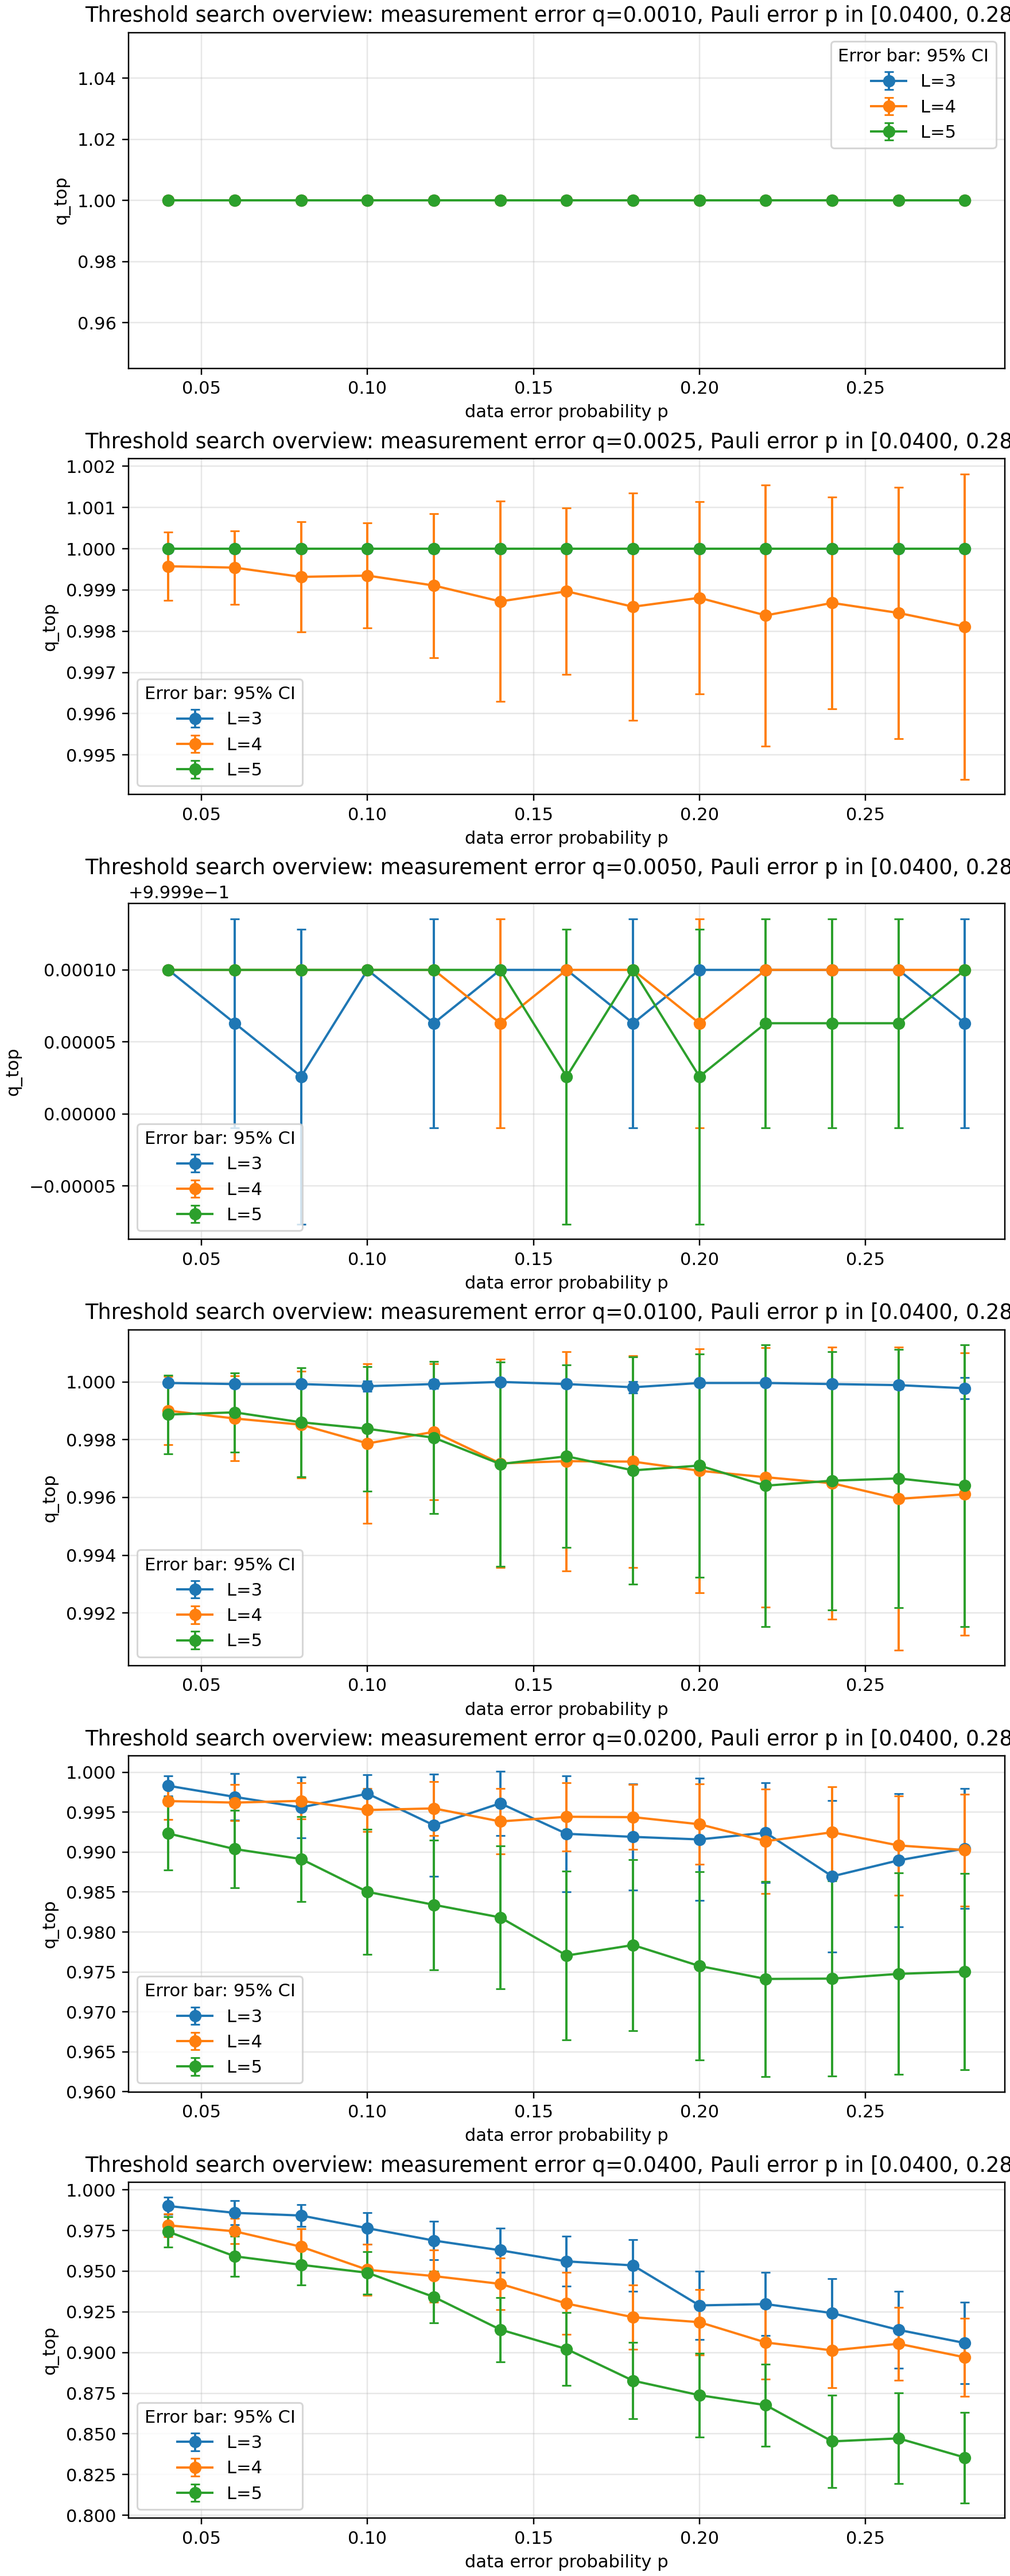
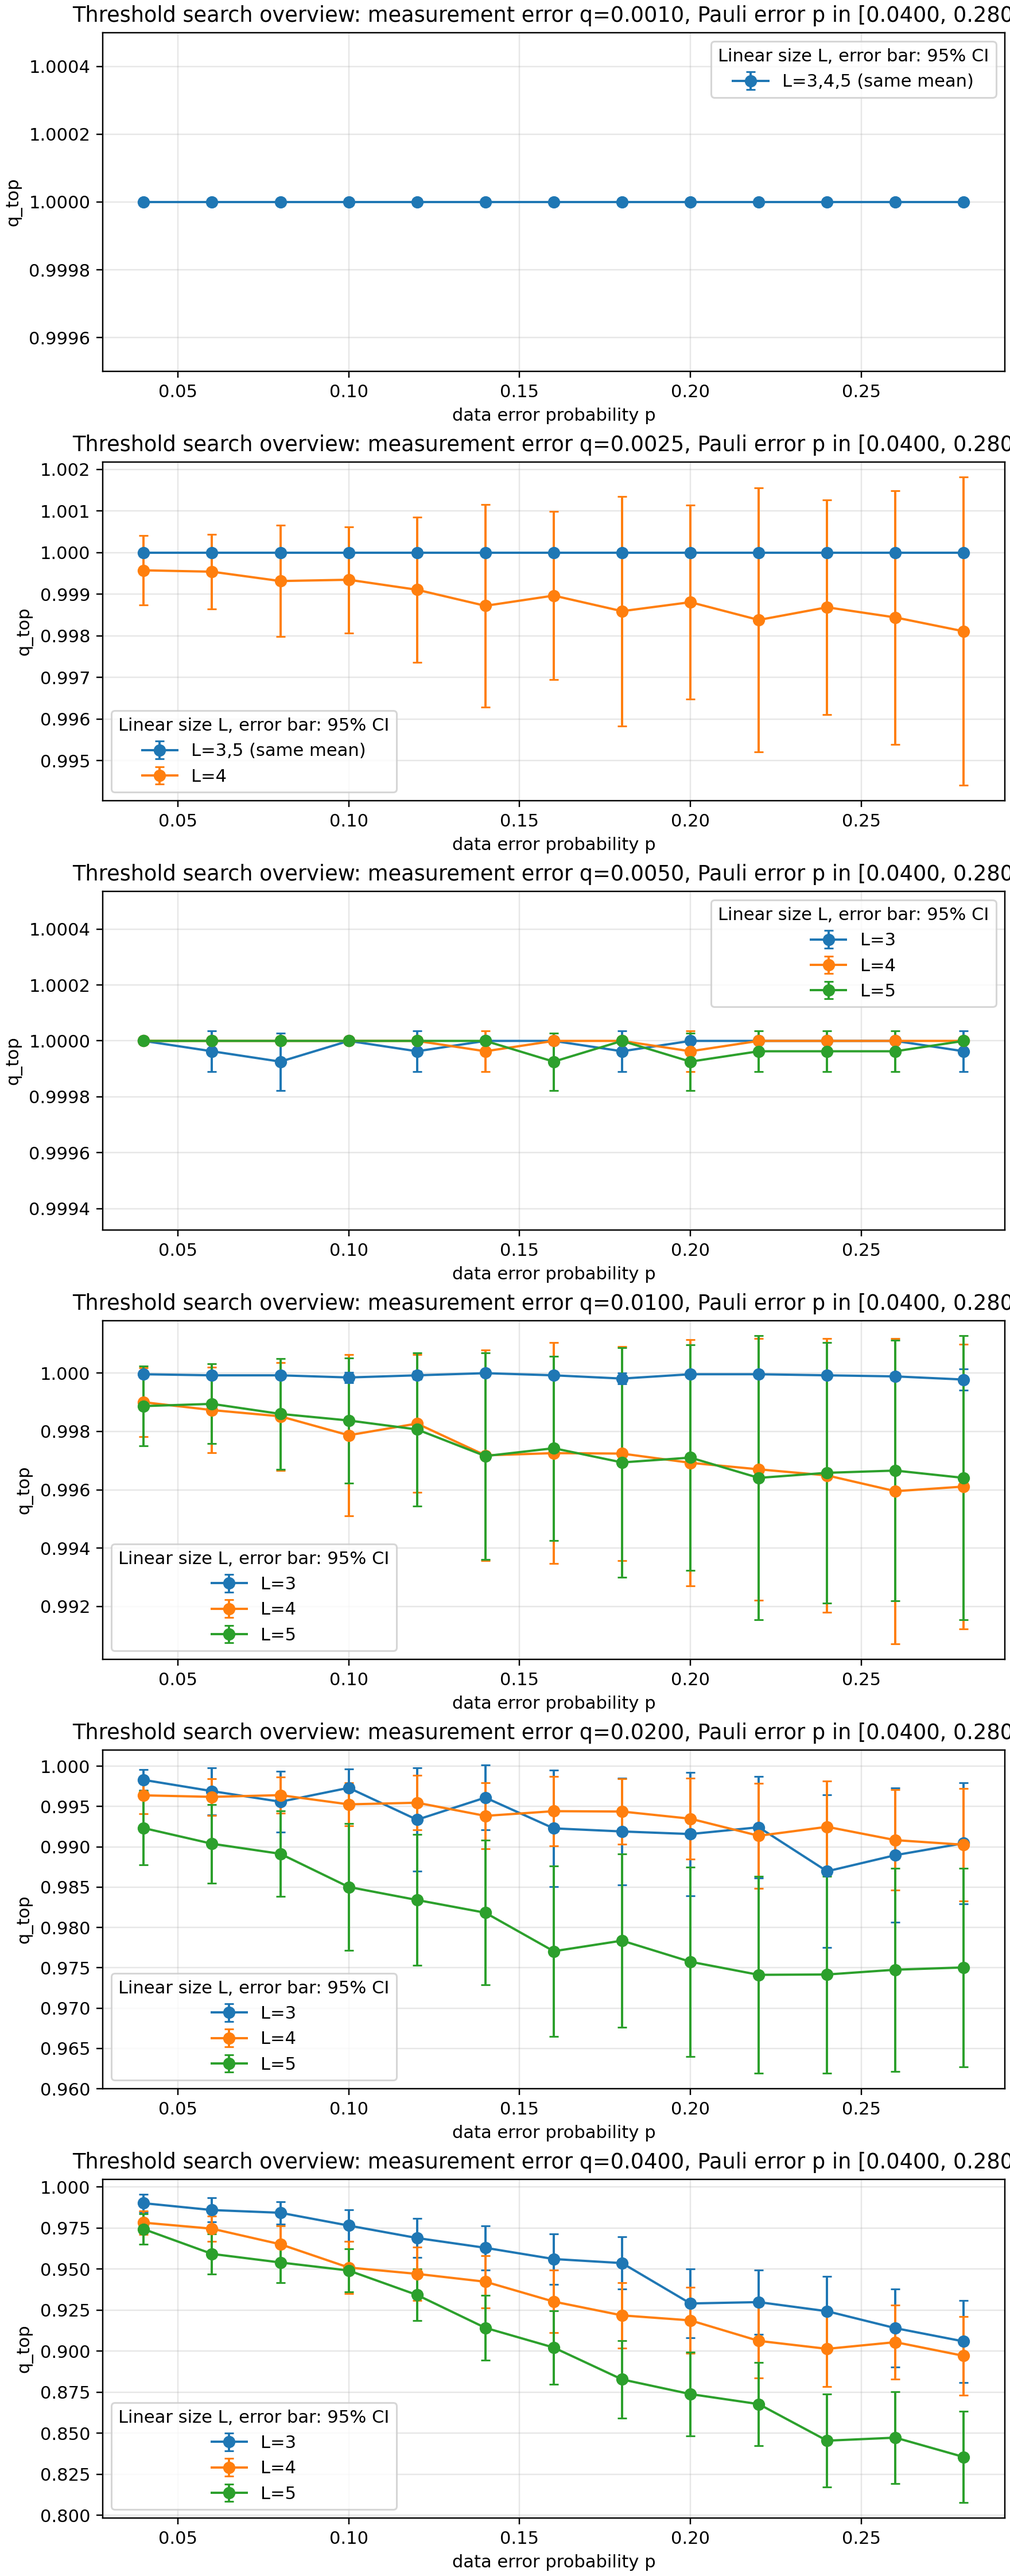
Fix 3D threshold overview plotting

diff --git a/src/plot_threshold_search_overview.py b/src/plot_threshold_search_overview.py
@@ -15,6 +15,7 @@ import numpy as np
 
 matplotlib.use("Agg")
 import matplotlib.pyplot as plt
+from matplotlib.ticker import FormatStrFormatter, ScalarFormatter
 
 
 CI95_Z_SCORE = 1.96
@@ -81,16 +82,58 @@ def _plot_sem95_overview(result_list, output_path):
         q_top_curve_matrix = item["q_top_curve_matrix"]
         q_top_ci95_curve_matrix = item["q_top_ci95_curve_matrix"]
         q_value = item["syndrome_error_probability"]
+        plotted_group_list = []
         for lattice_index, lattice_size in enumerate(lattice_size_list):
+            curve = q_top_curve_matrix[lattice_index]
+            ci95_curve = q_top_ci95_curve_matrix[lattice_index]
+            matching_group = None
+            for group in plotted_group_list:
+                if np.array_equal(curve, group["curve"]):
+                    matching_group = group
+                    break
+            if matching_group is None:
+                matching_group = {
+                    "curve": curve,
+                    "ci95_curve_list": [ci95_curve],
+                    "lattice_size_list": [int(lattice_size)],
+                }
+                plotted_group_list.append(matching_group)
+            else:
+                matching_group["ci95_curve_list"].append(ci95_curve)
+                matching_group["lattice_size_list"].append(int(lattice_size))
+
+        for group_index, group in enumerate(plotted_group_list):
+            size_label = ",".join(str(size) for size in group["lattice_size_list"])
+            if len(group["lattice_size_list"]) > 1:
+                curve_label = f"L={size_label} (same mean)"
+            else:
+                curve_label = f"L={size_label}"
+            ci95_envelope = np.max(
+                np.vstack(group["ci95_curve_list"]),
+                axis=0,
+            )
             axis.errorbar(
                 probability_list,
-                q_top_curve_matrix[lattice_index],
-                yerr=q_top_ci95_curve_matrix[lattice_index],
+                group["curve"],
+                yerr=ci95_envelope,
                 marker="o",
                 linewidth=1.3,
                 capsize=2.5,
-                label=f"L={int(lattice_size)}",
+                label=curve_label,
+                color=f"C{group_index}",
             )
+        y_min = float(np.min(q_top_curve_matrix - q_top_ci95_curve_matrix))
+        y_max = float(np.max(q_top_curve_matrix + q_top_ci95_curve_matrix))
+        y_range = y_max - y_min
+        if y_max <= 1.001 and y_min >= 0.97 and y_range < 0.02:
+            y_padding = max(5e-4, 0.15 * max(y_range, 1e-6))
+            axis.set_ylim(max(0.0, y_min - y_padding), min(1.001, y_max + y_padding))
+            axis.yaxis.set_major_formatter(FormatStrFormatter("%.4f"))
+        else:
+            formatter = ScalarFormatter(useOffset=False)
+            formatter.set_scientific(False)
+            axis.yaxis.set_major_formatter(formatter)
+        axis.yaxis.get_offset_text().set_visible(False)
         axis.set_title(
             "Threshold search overview: "
             f"measurement error q={q_value:0.4f}, "
@@ -100,13 +143,16 @@ def _plot_sem95_overview(result_list, output_path):
         axis.set_xlabel("data error probability p")
         axis.set_ylabel("q_top")
         axis.grid(True, alpha=0.3)
-        axis.legend(title="Error bar: 95% CI")
+        axis.legend(title="Linear size L, error bar: 95% CI")
 
     figure.savefig(output_path, dpi=220)
     plt.close(figure)
 
 
 def _plot_gap_summary(result_list, output_path):
+    lattice_size_list = result_list[0]["lattice_size_list"]
+    lower_pair_label = f"L{int(lattice_size_list[0])}-L{int(lattice_size_list[1])}"
+    upper_pair_label = f"L{int(lattice_size_list[1])}-L{int(lattice_size_list[2])}"
     q_value_list = np.array(
         [item["syndrome_error_probability"] for item in result_list],
         dtype=np.float64,
@@ -166,14 +212,14 @@ def _plot_gap_summary(result_list, output_path):
         delta_35_min_abs_list,
         marker="o",
         linewidth=1.5,
-        label="min |L3-L5|",
+        label=f"min |{lower_pair_label}|",
     )
     top_axis.plot(
         q_value_list,
         delta_57_min_abs_list,
         marker="o",
         linewidth=1.5,
-        label="min |L5-L7|",
+        label=f"min |{upper_pair_label}|",
     )
     top_axis.set_title(
         "Pairwise gap summary: "
@@ -190,14 +236,14 @@ def _plot_gap_summary(result_list, output_path):
         delta_35_min_abs_p_list,
         marker="o",
         linewidth=1.5,
-        label="argmin |L3-L5|",
+        label=f"argmin |{lower_pair_label}|",
     )
     bottom_axis.plot(
         q_value_list,
         delta_57_min_abs_p_list,
         marker="o",
         linewidth=1.5,
-        label="argmin |L5-L7|",
+        label=f"argmin |{upper_pair_label}|",
     )
     finite_window_mask = np.isfinite(recommended_p_min_list) & np.isfinite(
         recommended_p_max_list
